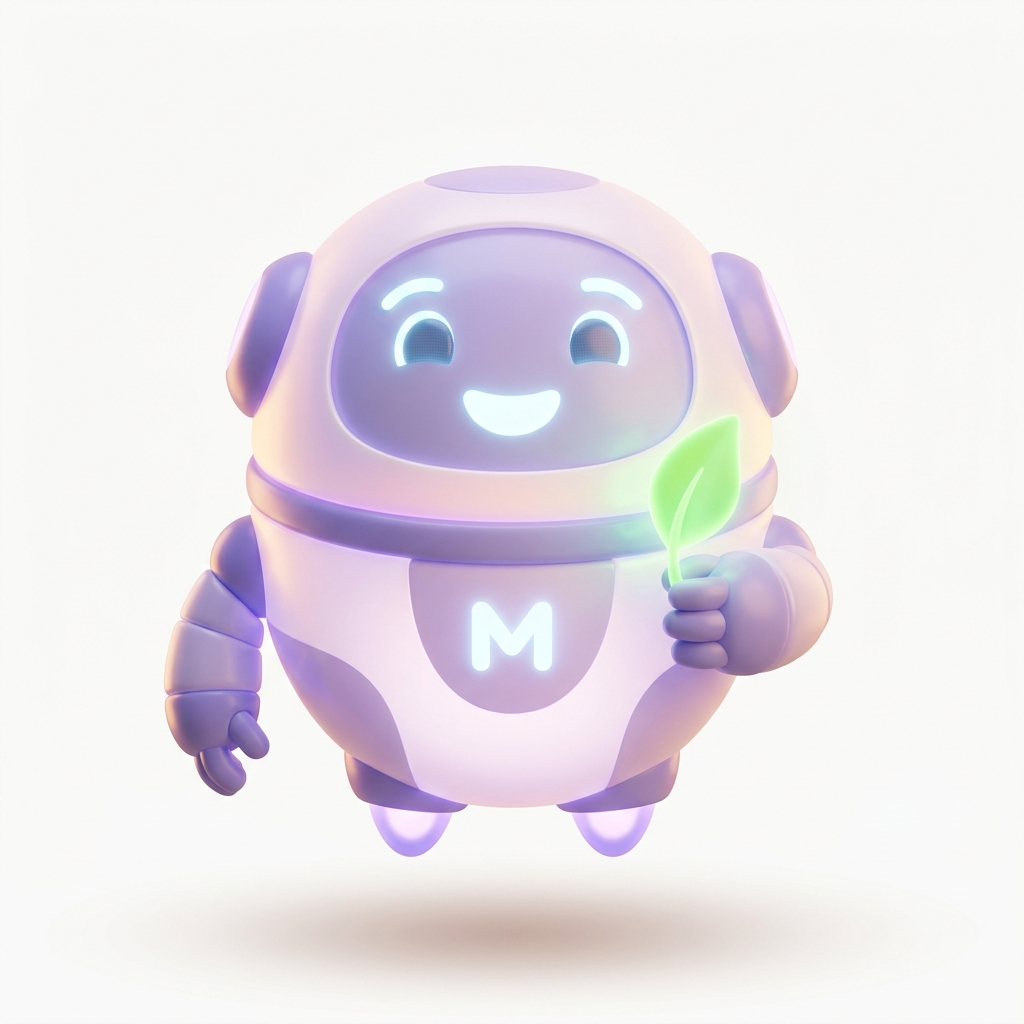
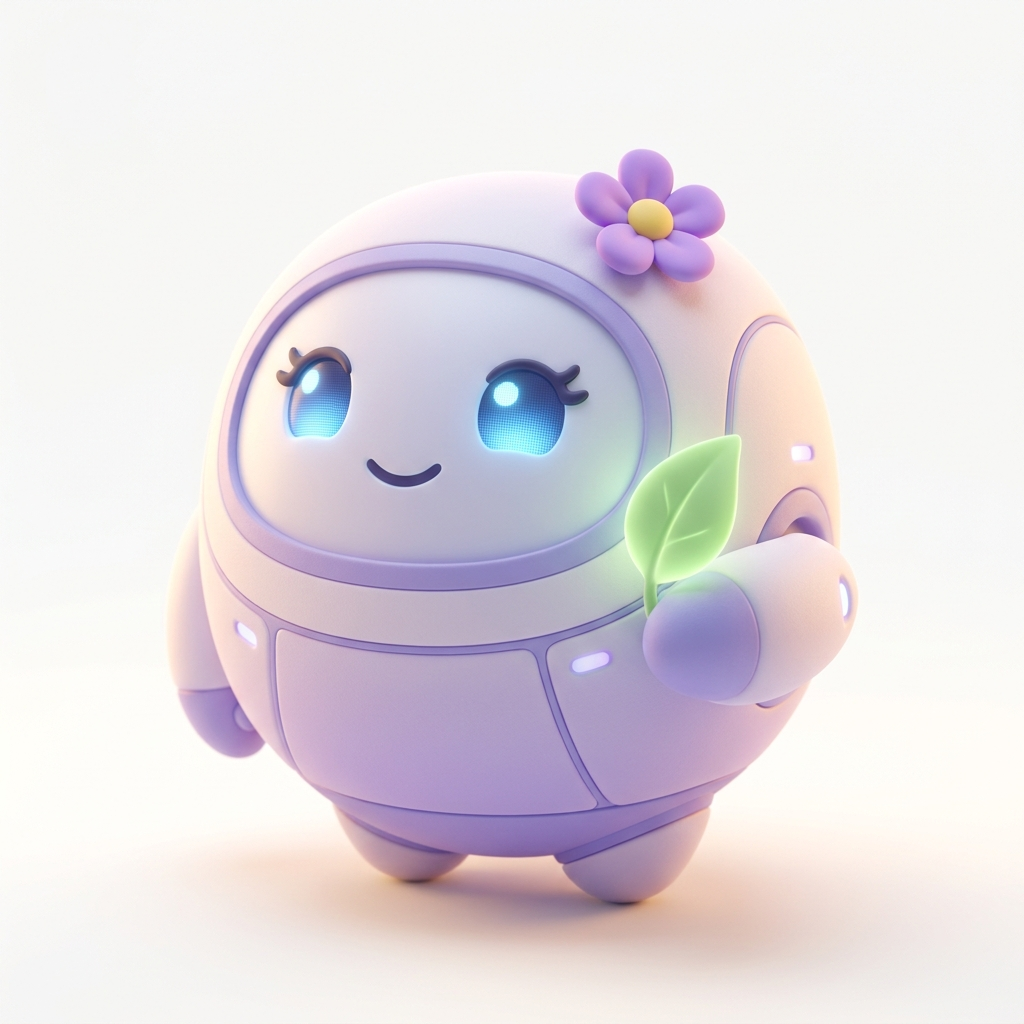
Update mascot to female robot Uskabuska and implement walking and spinning CSS keyframe animations in bottom right corner

diff --git a/components/marketing/MascotChatWidget.tsx b/components/marketing/MascotChatWidget.tsx
@@ -23,7 +23,7 @@ export function MascotChatWidget() {
   const [messages, setMessages] = useState<Message[]>([
     {
       sender: "bot",
-      text: "Hello! I am Asha, your Ahana Hospitals wellness guide. How can I support you today? Feel free to ask about our clinical care pathways or rehabilitation services.",
+      text: "Hello! I am Uskabuska, your Ahana Hospitals wellness guide. How can I support you today? Feel free to ask about our clinical care pathways or rehabilitation services.",
       time: new Date().toLocaleTimeString([], { hour: "2-digit", minute: "2-digit" }),
     },
   ]);
@@ -75,7 +75,7 @@ export function MascotChatWidget() {
       {/* Tooltip Alert */}
       {showTooltip && !isOpen && (
         <div className={styles.tooltip} role="alert">
-          <p>Hi! I'm Asha. Click here to chat! 👋</p>
+          <p>Hi! I'm Uskabuska. Click here to chat! 👋</p>
           <button
             type="button"
             className={styles.tooltipClose}
@@ -103,7 +103,7 @@ export function MascotChatWidget() {
         <div className={styles.avatarWrapper}>
           <Image
             src="/assets/mascot.jpg"
-            alt="Asha Mascot avatar"
+            alt="Uskabuska Mascot avatar"
             fill
             sizes="64px"
             className={styles.avatarImage}
@@ -121,14 +121,14 @@ export function MascotChatWidget() {
               <div className={styles.headerAvatar}>
                 <Image
                   src="/assets/mascot.jpg"
-                  alt="Asha Avatar"
+                  alt="Uskabuska Avatar"
                   width={40}
                   height={40}
                   className={styles.headerAvatarImg}
                 />
               </div>
               <div>
-                <h3 id="chat-heading" className={styles.mascotName}>Asha</h3>
+                <h3 id="chat-heading" className={styles.mascotName}>Uskabuska</h3>
                 <span className={styles.statusIndicator}>● Online Wellness Guide</span>
               </div>
             </div>
@@ -186,7 +186,7 @@ export function MascotChatWidget() {
           >
             <input
               type="text"
-              placeholder="Ask Asha a question..."
+              placeholder="Ask Uskabuska a question..."
               value={inputValue}
               onChange={(e) => setInputValue(e.target.value)}
               className={styles.chatInput}

diff --git a/components/marketing/MascotChatWidget.module.css b/components/marketing/MascotChatWidget.module.css
@@ -58,15 +58,18 @@
   padding: 0;
   overflow: hidden;
   transition: transform 0.2s cubic-bezier(0.175, 0.885, 0.32, 1.275), box-shadow 0.2s;
+  animation: uskabuskaWalkAndSpin 12s ease-in-out infinite;
 }
 
 .chatTrigger:hover {
+  animation-play-state: paused;
   transform: scale(1.08);
   box-shadow: 0 14px 30px rgba(121, 27, 117, 0.35);
 }
 
 .activeTrigger {
-  transform: rotate(90deg) scale(0.95);
+  animation: none !important;
+  transform: scale(0.95) !important;
   background: var(--ahana-purple-dark);
 }
 
@@ -337,6 +340,48 @@
   to {
     opacity: 1;
     transform: translateY(0) scale(1);
+  }
+}
+
+@keyframes uskabuskaWalkAndSpin {
+  0% {
+    transform: translateX(0) translateY(0) rotate(0deg);
+  }
+  5% {
+    transform: translateX(-15px) translateY(-5px) rotate(-6deg);
+  }
+  10% {
+    transform: translateX(-30px) translateY(0) rotate(0deg);
+  }
+  15% {
+    transform: translateX(-45px) translateY(-5px) rotate(6deg);
+  }
+  20% {
+    transform: translateX(-60px) translateY(0) rotate(0deg);
+  }
+  25% {
+    transform: translateX(-60px) translateY(0) rotate(0deg);
+  }
+  30% {
+    transform: translateX(-45px) translateY(-5px) rotate(-6deg);
+  }
+  35% {
+    transform: translateX(-30px) translateY(0) rotate(0deg);
+  }
+  40% {
+    transform: translateX(-15px) translateY(-5px) rotate(6deg);
+  }
+  45% {
+    transform: translateX(0) translateY(0) rotate(0deg);
+  }
+  50% {
+    transform: translateX(0) translateY(0) rotate(0deg);
+  }
+  60% {
+    transform: translateX(0) translateY(0) rotate(360deg);
+  }
+  100% {
+    transform: translateX(0) translateY(0) rotate(360deg);
   }
 }
 
